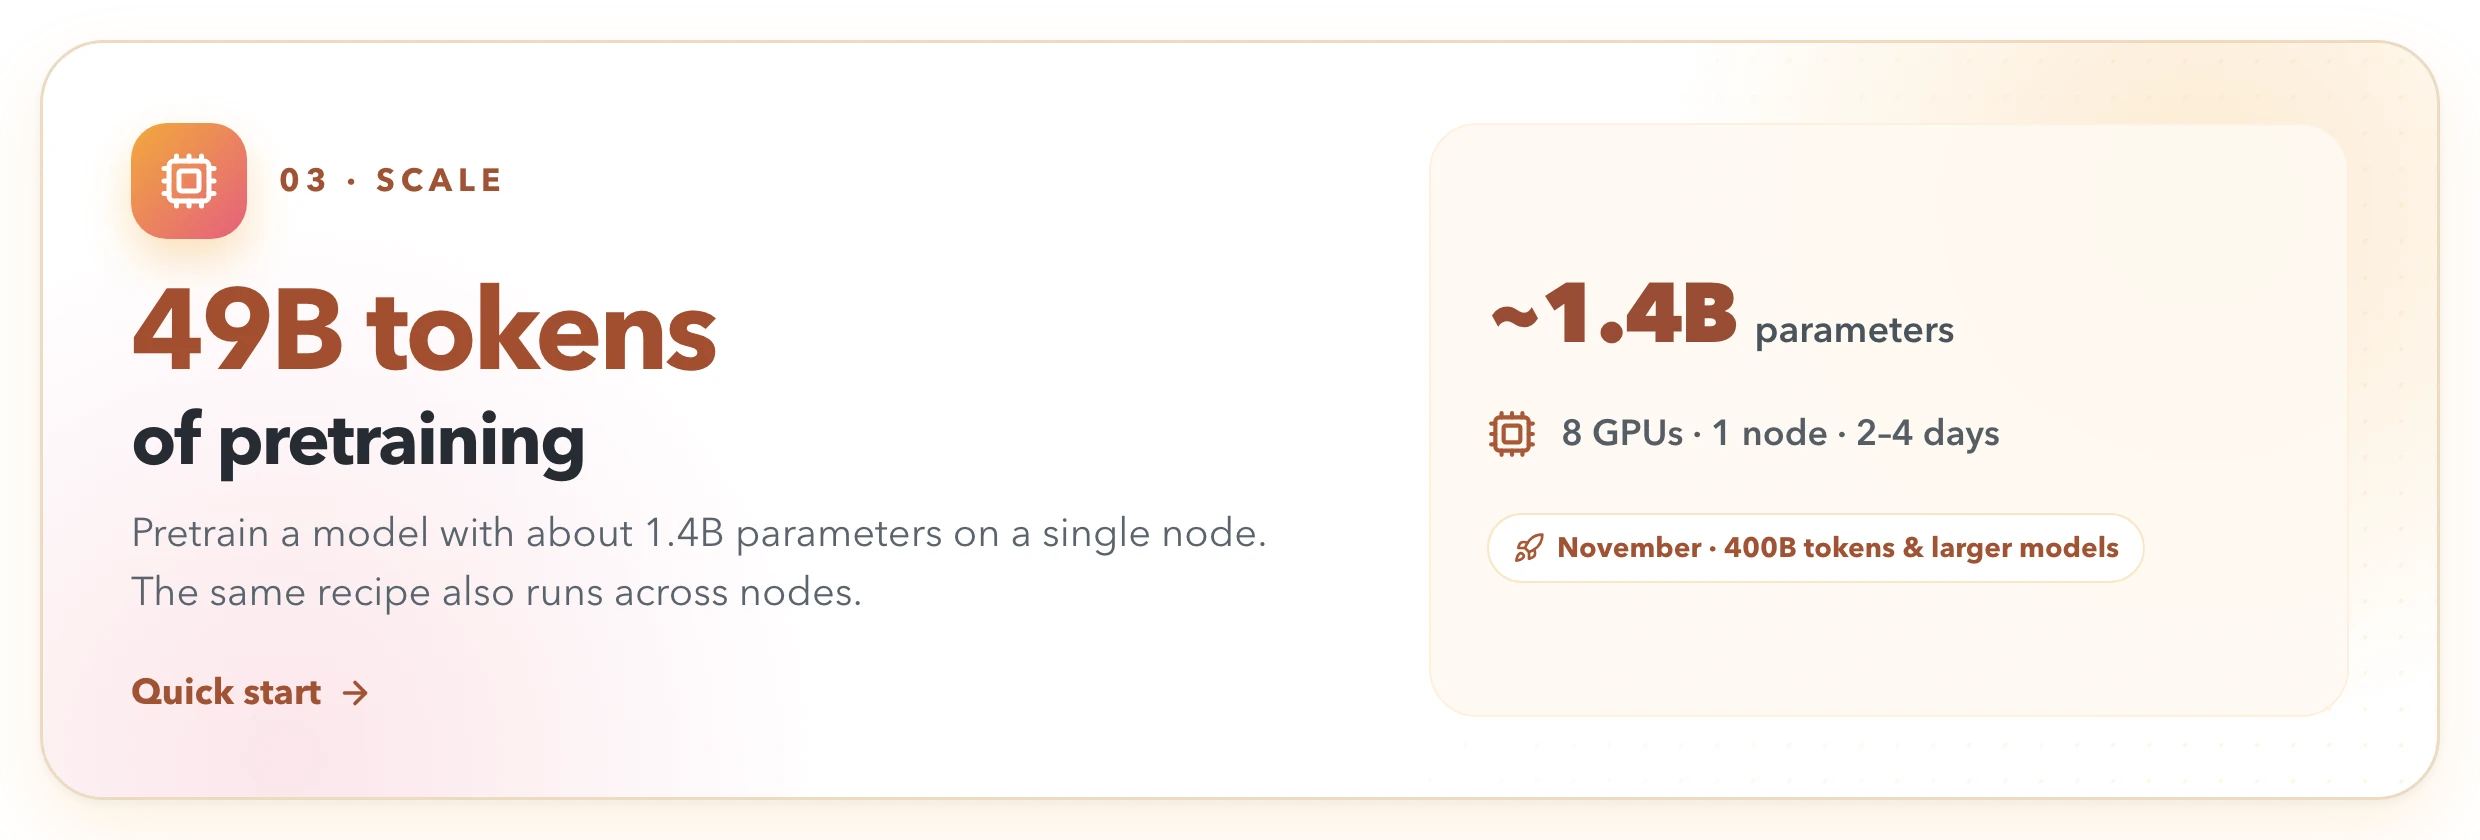
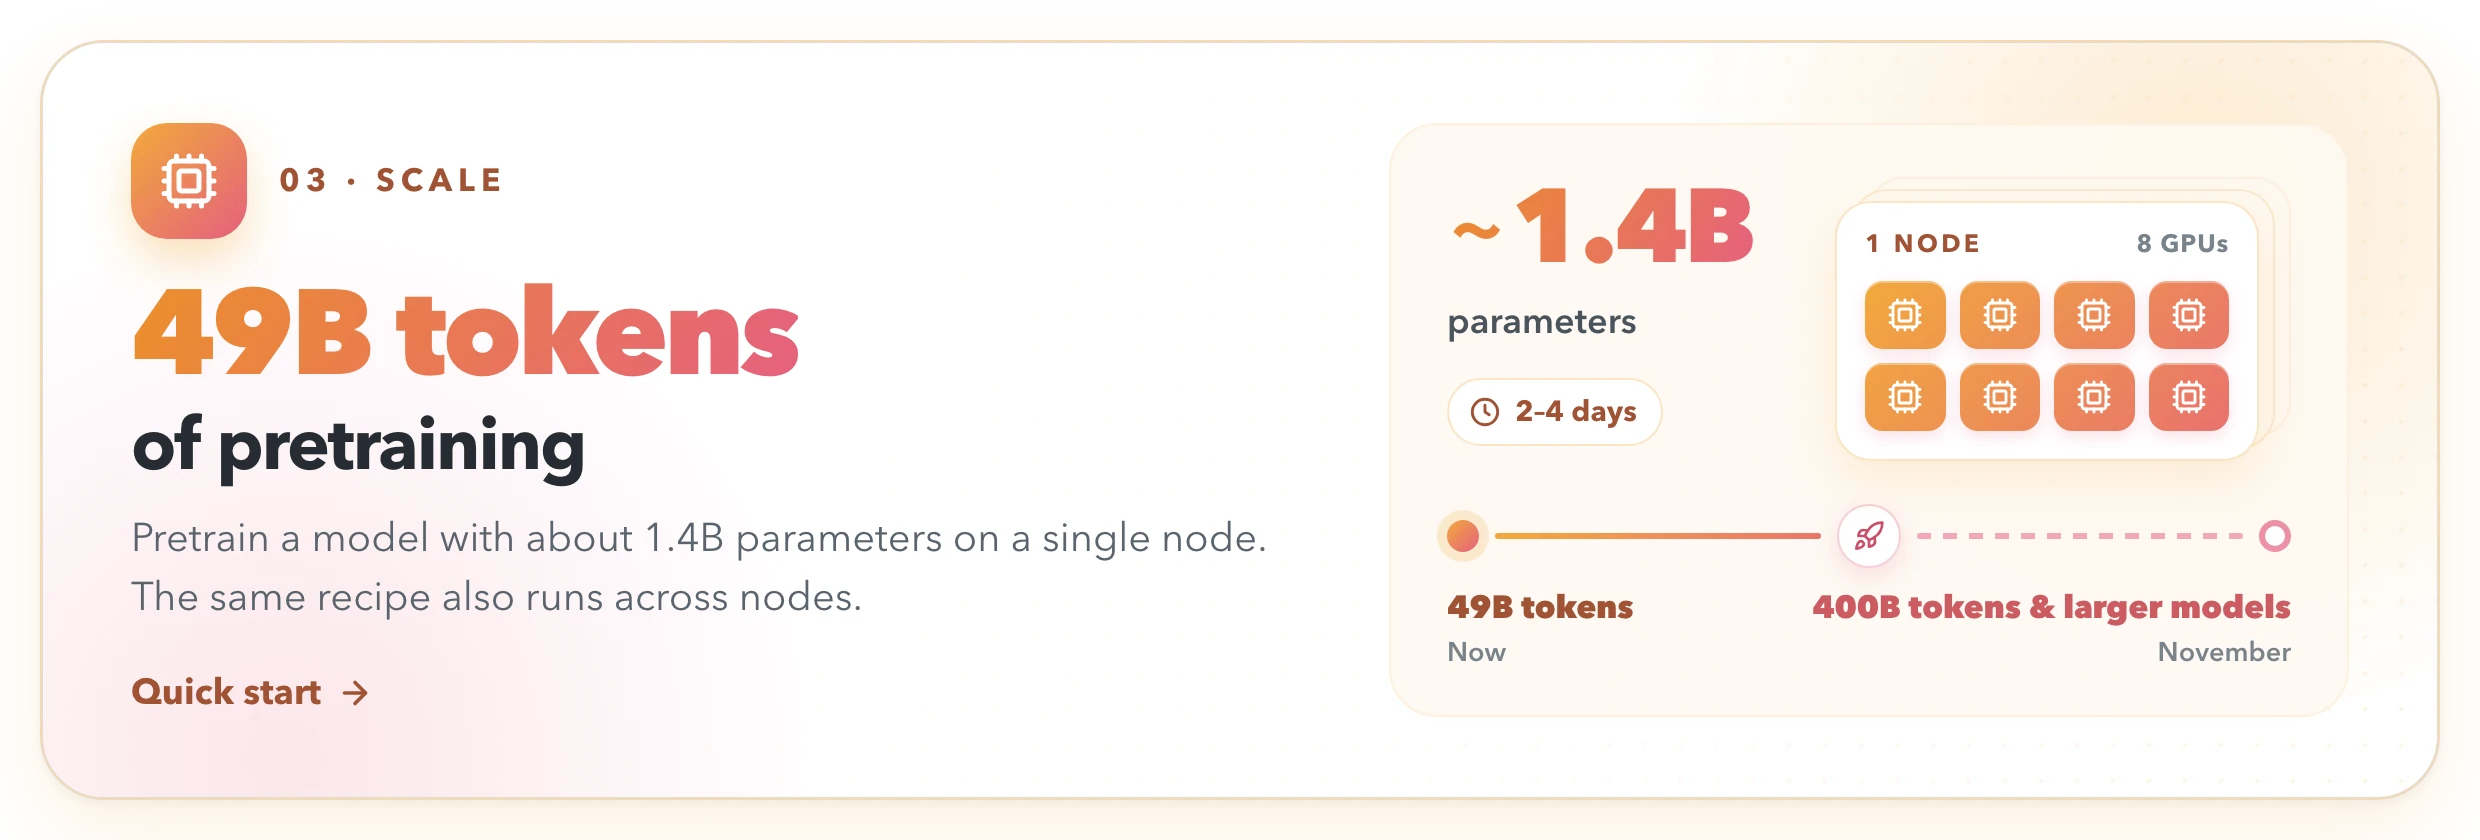
Redesign the scale highlight panel
The right panel of card 03 now shows the ~1.4B parameter count in the same gradient hero style as cards 02 and 04, a one-node 8-GPU diagram, and a roadmap from 49B tokens today to 400B tokens and larger models in November. The 49B tokens headline uses the same gradient and stays the largest number on the card.

diff --git a/README.md b/README.md
@@ -42,7 +42,7 @@ result is an audited, file-backed record, and AI agents can research new archite
 
 <a href="https://interactive-active-ai.github.io/NextTransformer/docs/protocol/overview/"><img src=".github/assets/readme/card-protocol-en.webp" alt="A fair, explicit protocol: same data, tokens, optimizer, schedule and evaluation for every model; training compute matched to within 1% and audited over the whole run." width="100%"></a>
 
-<a href="https://interactive-active-ai.github.io/NextTransformer/docs/getting-started/quick-start/"><img src=".github/assets/readme/card-scale-en.webp" alt="49B tokens of pretraining for a model with about 1.4B parameters, in 2–4 days on one 8-GPU node." width="100%"></a>
+<a href="https://interactive-active-ai.github.io/NextTransformer/docs/getting-started/quick-start/"><img src=".github/assets/readme/card-scale-en.webp" alt="49B tokens of pretraining for a model with about 1.4B parameters, in 2–4 days on one 8-GPU node; 400B tokens and larger models are planned for November." width="100%"></a>
 
 <a href="https://interactive-active-ai.github.io/NextTransformer/docs/arena/task/"><img src=".github/assets/readme/card-agent-en.webp" alt="Agent-native research: hand the arena task to your agent; the full version, Arena v2, ships by November 14, 2026." width="100%"></a>
 

diff --git a/README.zh-CN.md b/README.zh-CN.md
@@ -41,7 +41,7 @@ AI agent 也可以在完全相同的规则下研究新架构。
 
 <a href="https://interactive-active-ai.github.io/NextTransformer/docs/zh-cn/protocol/overview/"><img src=".github/assets/readme/card-protocol-zh.webp" alt="公平、明确的协议：每个模型使用相同的数据、token、优化器、调度和评测；训练算力对齐到 1% 以内，并对整个运行做审计。" width="100%"></a>
 
-<a href="https://interactive-active-ai.github.io/NextTransformer/docs/zh-cn/getting-started/quick-start/"><img src=".github/assets/readme/card-scale-zh.webp" alt="用 49B tokens 预训练约 1.4B 参数的模型，单机 8 卡约需 2–4 天。" width="100%"></a>
+<a href="https://interactive-active-ai.github.io/NextTransformer/docs/zh-cn/getting-started/quick-start/"><img src=".github/assets/readme/card-scale-zh.webp" alt="用 49B tokens 预训练约 1.4B 参数的模型，单机 8 卡约需 2–4 天；11 月计划扩展到 400B tokens 与更大模型。" width="100%"></a>
 
 <a href="https://interactive-active-ai.github.io/NextTransformer/docs/zh-cn/arena/task/"><img src=".github/assets/readme/card-agent-zh.webp" alt="Agent 原生研究：把竞技场任务交给你的 agent；完整版本 Arena v2 将于 2026 年 11 月 14 日前上线。" width="100%"></a>
 
